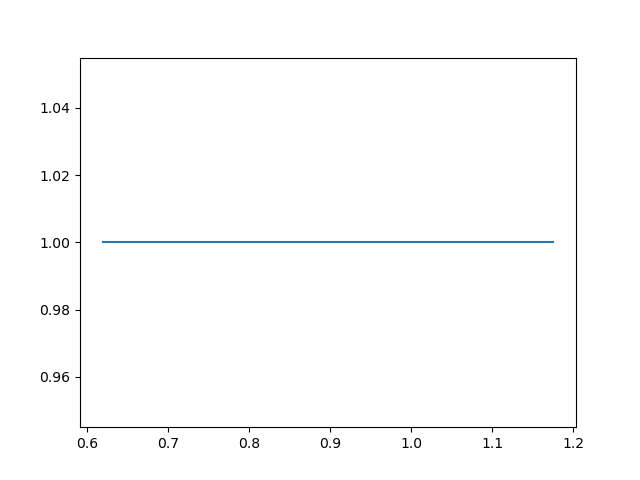
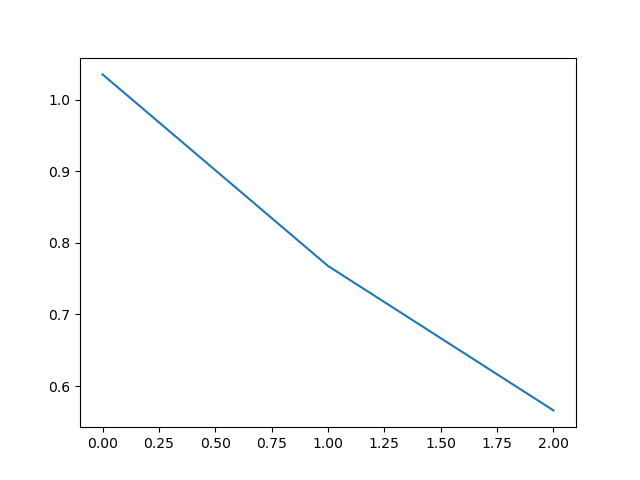
fixed axs in plot

diff --git a/simple_ae.py b/simple_ae.py
@@ -183,14 +183,15 @@ class DataVisualizer:
         loss_c_data = [d[1] for d in self.data]
         loss_cse = [d[2] for d in self.data]
         loss_ae = [a+b+c for (a,b,c) in zip(loss_p_data, loss_c_data, loss_cse)]
-        print(self.data)
-        fig = plt.figure()
+        over_time = [i for i in range(len(loss_ae))]
+        plt.figure()
         #plt.plot(loss_p_data, len(loss_p_data)*[1])
         #plt.plot(loss_c_data, len(loss_c_data)*[1])
         #plt.plot(loss_cse, len(loss_cse)*[1])
-        plt.plot(loss_ae, len(loss_ae)*[1])
+        plt.plot(over_time, loss_ae)
         plt.autoscale()
-        fig.savefig(f'./outimgs/loss_'+str({i}))
+        plt.savefig(f'./outimgs/loss_'+str({i}))
+        plt.close()
             
 
 
